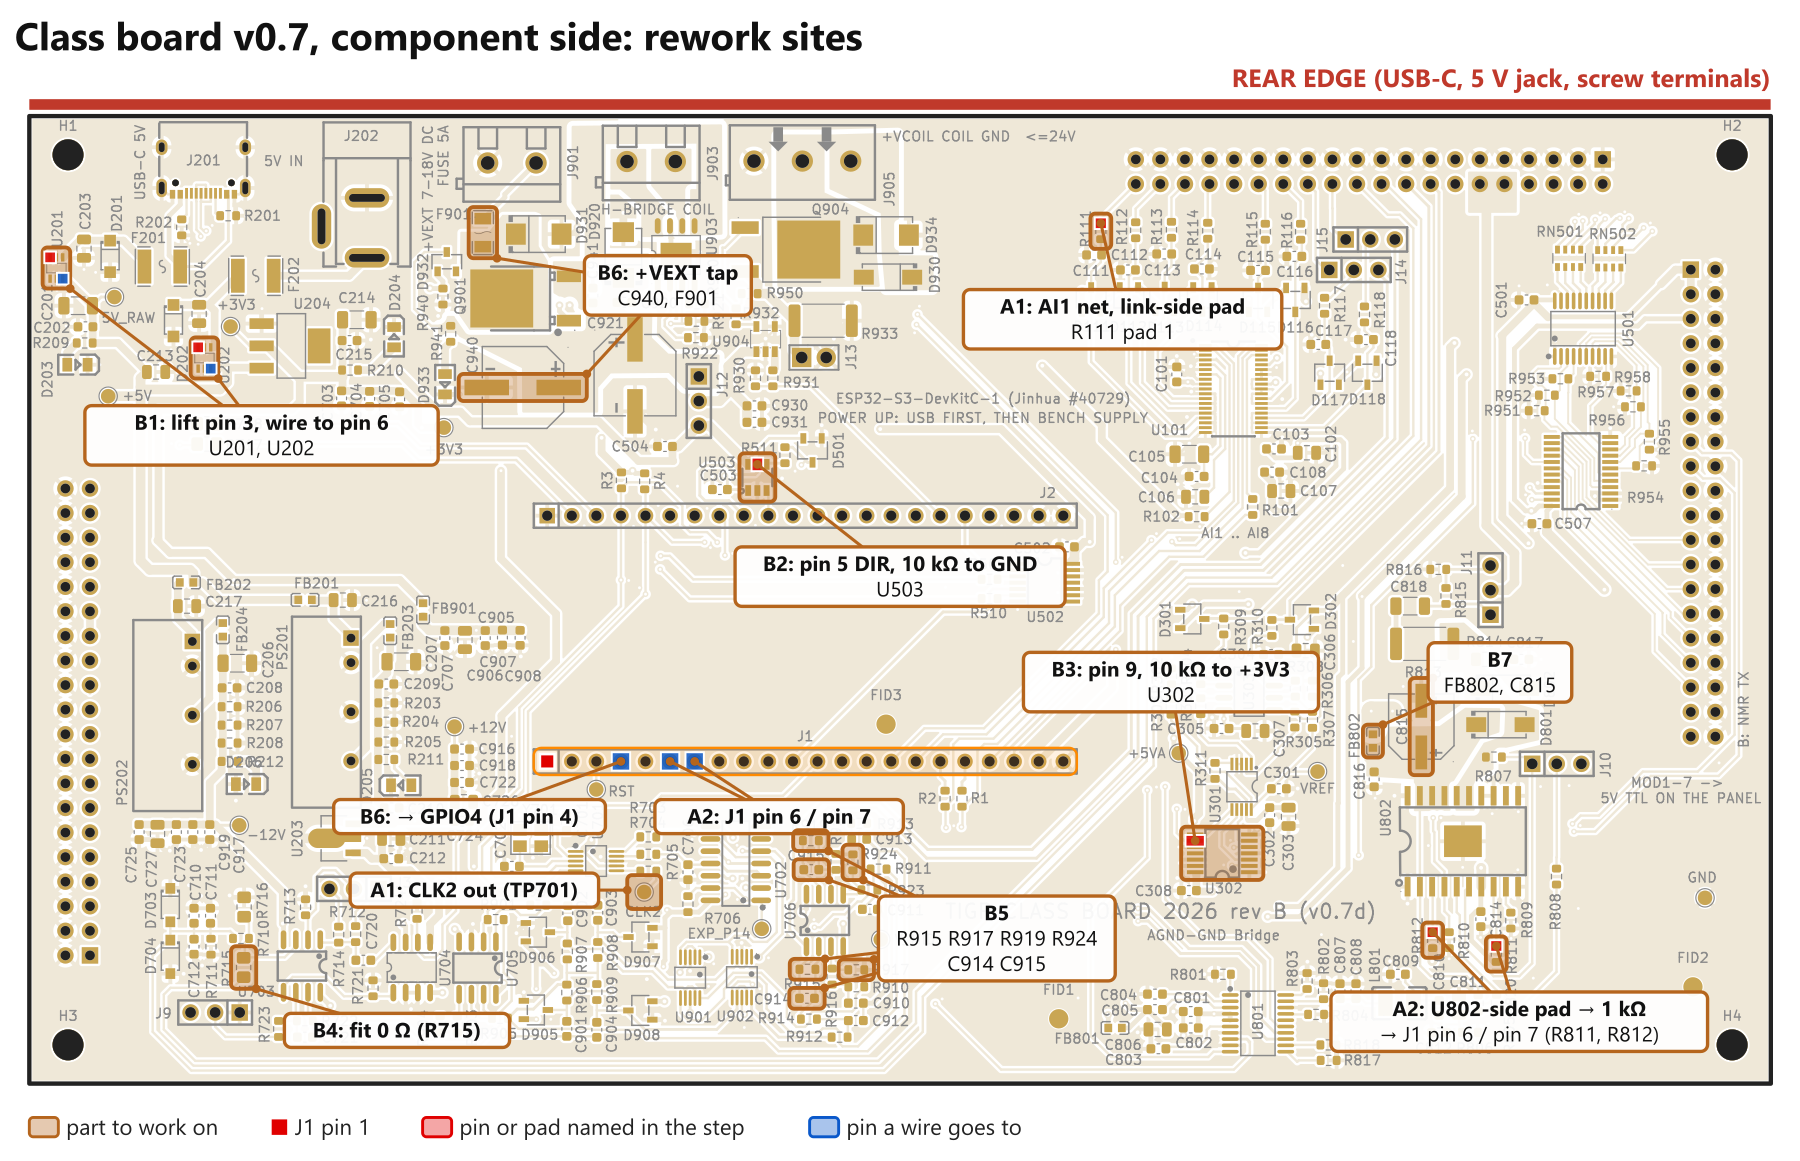
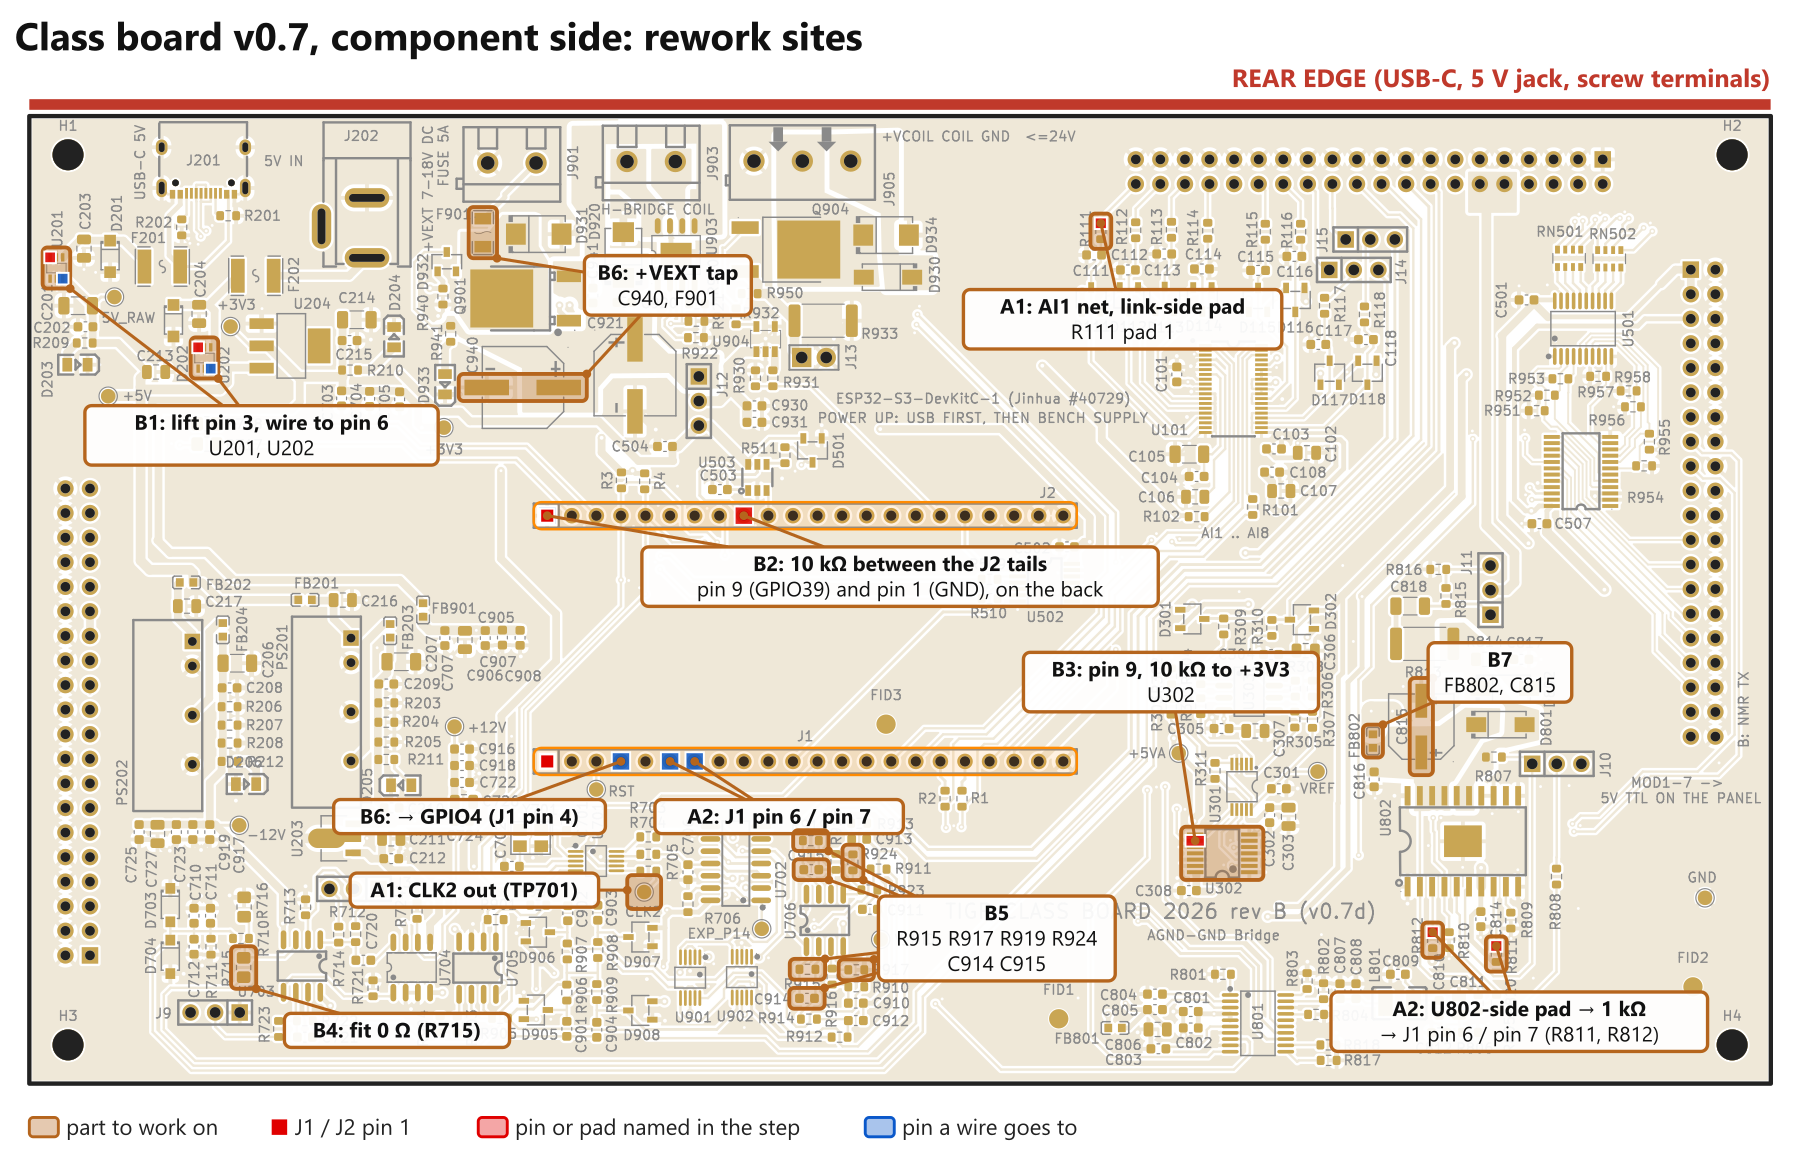
assembly guide: rework map marks B2 on the J2 tails (pin 9 GPIO39, pin 1 GND)

Changed region(s): [[0.28, 0.3721, 0.6533, 0.5271], [0.1867, 0.9612, 0.5911, 0.9922]]

diff --git a/hardware/docs/assembly.html b/hardware/docs/assembly.html
@@ -365,7 +365,7 @@ pio run -e esp32s3 -t uploadfs</code></pre>
         <tr><td class="ref">B7</td><td><strong>Separate transmitter supply</strong></td><td>Remove FB802; feed the FB802 pad on the C815 side (+VEXT_TX) from an 18–20 V source (a small buck module, or an LM317 from +VEXT)</td><td>1 regulator module (1 A)</td><td>The H-bridge runs at the full 24 V while the transmitter amplifier keeps its margin.</td></tr>
     </tbody>
   </table></div>
-  <figure><img src="assembly-img/main-rework-map.png" alt="Map of the main board's component side with the pads of every rework item marked"><figcaption>Where each rework item lands on the component side. The A2 and B6 wires end on the J1 tails, on the back.</figcaption></figure>
+  <figure><img src="assembly-img/main-rework-map.png" alt="Map of the main board's component side with the pads of every rework item marked"><figcaption>Where each rework item lands on the component side. The A2 and B6 wires end on the J1 tails and the B2 resistor sits on the J2 tails, on the back.</figcaption></figure>
   <p>After A1, A2 or B6 the bring-up order is section E of the rework plan: rails, the analog loop-back, the digital lines, the transmitter at 24 V into a dummy load with J10 open first, the receiver, and last the H-bridge and polarizer with the external fuse.</p>
 </section>
 
